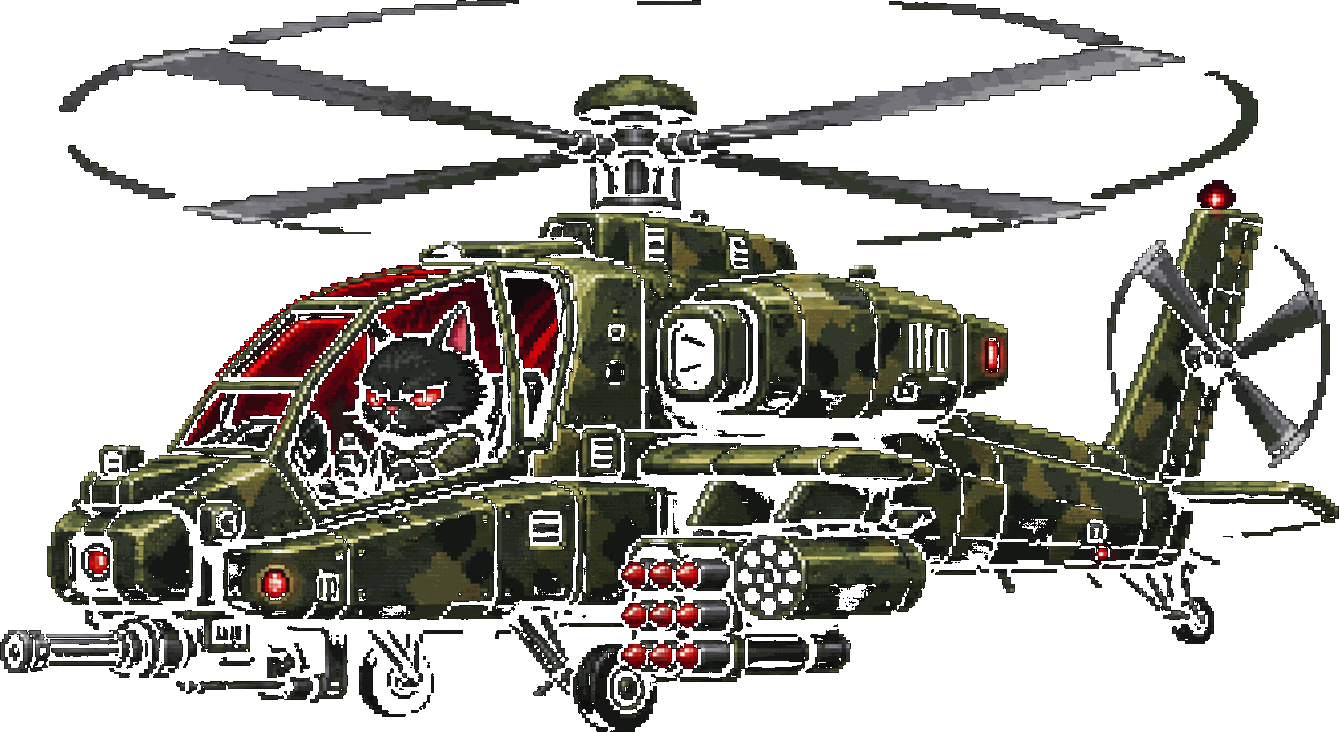
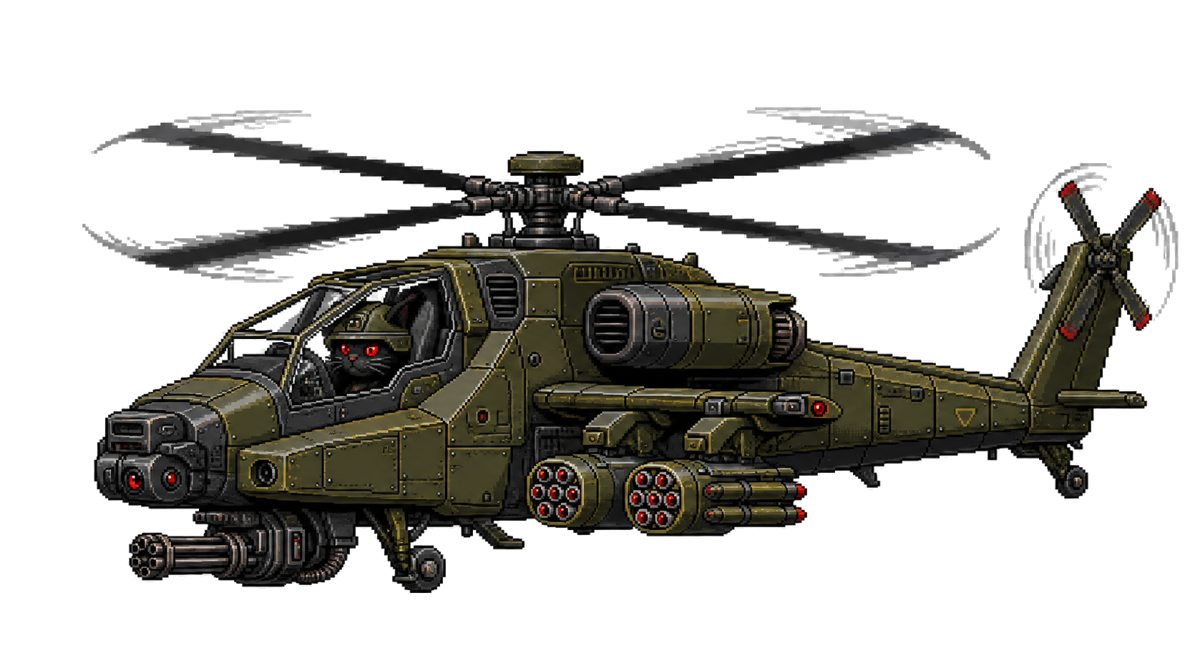
asset: 更新第二关直升机Boss素材
使用MCP生成新的像素风武装直升机；机身更厚实不透明；驾驶舱内黑猫驾驶员红眼；透明背景；js引用版本号更新为v=2

diff --git a/js/game.js b/js/game.js
@@ -447,7 +447,7 @@
     { key: 'hero', src: 'assets/cat_hero_sheet.png?v=2', required: true },
     { key: 'boss', src: 'assets/cat_boss.png?v=2', required: false },
     { key: 'skyBg', src: 'assets/sky_bg.jpg?v=3', required: false },
-    { key: 'heliBoss', src: 'assets/heli_boss.png?v=1', required: false },
+    { key: 'heliBoss', src: 'assets/heli_boss.png?v=2', required: false },
     
   ];
   let assetsReady = false;